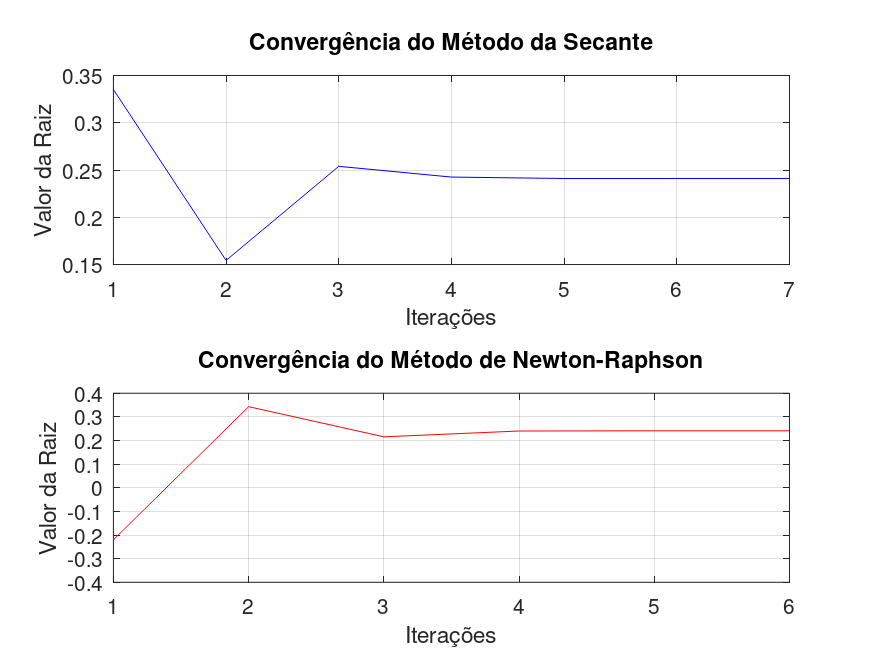
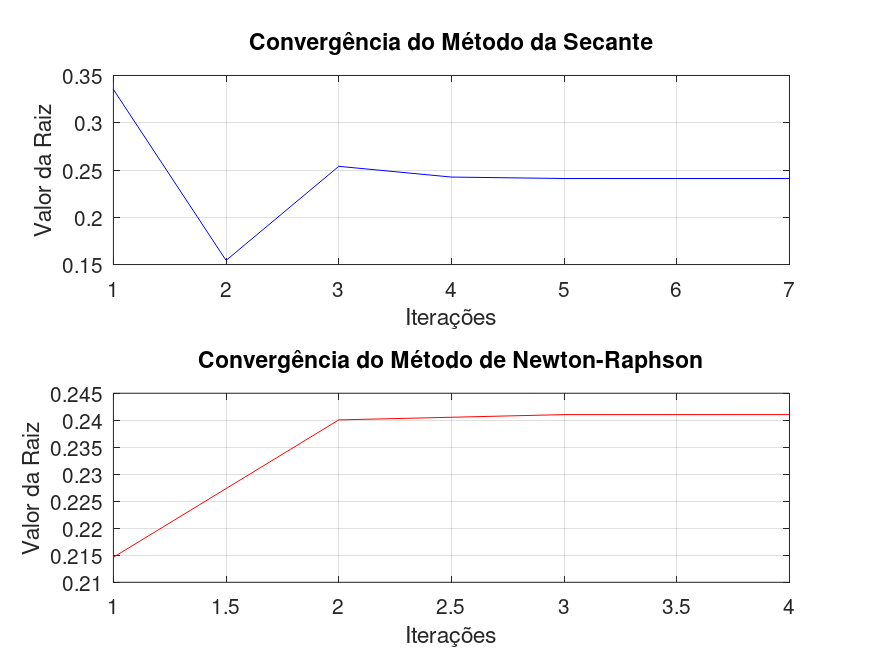
Finalizado lista grupo

diff --git a/Lista 5 - Alex e Bruno/P2/lista5Questao3.m b/Lista 5 - Alex e Bruno/P2/lista5Questao3.m
@@ -27,7 +27,7 @@ function lista5Questao3()
     [rootSecante, itSecante, valoresSecante] = metodoSecante(e, F, q, Q, raio);
 
     % Criar tabela comparativa
-    criar_tabela(itBisseccao, rootBisseccao, itFalsaPosicao, rootFalsaPosicao, itIteracaoLinear, rootIteracaoLinear, itNewtonRaphson+1, rootNewtonRaphson, itSecante, rootSecante);
+    criar_tabela(itBisseccao, rootBisseccao, itFalsaPosicao, rootFalsaPosicao, itIteracaoLinear, rootIteracaoLinear, itNewtonRaphson+1, rootNewtonRaphson, itSecante+1, rootSecante);
 
     % Criar gráficos de convergência
     criar_graficos(valoresBisseccao, valoresFalsaPosicao, valoresIteracaoLinear, valoresNewtonRaphson, valoresSecante);
@@ -142,6 +142,7 @@ endfunction
 function criar_graficos(valoresBisseccao, valoresFalsaPosicao, valoresIteracaoLinear, valoresNewtonRaphson, valoresSecante)
     % Função para criar gráficos de convergência separados para cada método
 
+    % Gráfico combinado
     figure;
     plot(valoresBisseccao, 'b-'); hold on;
     plot(valoresFalsaPosicao, 'g-');
@@ -162,6 +163,7 @@ function criar_graficos(valoresBisseccao, valoresFalsaPosicao, valoresIteracaoLi
     ylabel('Raiz Aproximada');
     title('Gráfico de Convergência - Bissecção');
     legend show;
+    saveas(gcf, 'graficos_convergencia_bisseccao_lista5Questao3.png');  % Salva o gráfico da bissecção
 
     % Gráfico para Falsa Posição
     figure;
@@ -170,6 +172,7 @@ function criar_graficos(valoresBisseccao, valoresFalsaPosicao, valoresIteracaoLi
     ylabel('Raiz Aproximada');
     title('Gráfico de Convergência - Falsa Posição');
     legend show;
+    saveas(gcf, 'graficos_convergencia_falsa_posicao_lista5Questao3.png');  % Salva o gráfico da falsa posição
 
     % Gráfico para Iteração Linear
     figure;
@@ -178,6 +181,7 @@ function criar_graficos(valoresBisseccao, valoresFalsaPosicao, valoresIteracaoLi
     ylabel('Raiz Aproximada');
     title('Gráfico de Convergência - Iteração Linear');
     legend show;
+    saveas(gcf, 'graficos_convergencia_iteracao_linear_lista5Questao3.png');  % Salva o gráfico da iteração linear
 
     % Gráfico para Newton-Raphson
     figure;
@@ -186,6 +190,7 @@ function criar_graficos(valoresBisseccao, valoresFalsaPosicao, valoresIteracaoLi
     ylabel('Raiz Aproximada');
     title('Gráfico de Convergência - Newton-Raphson');
     legend show;
+    saveas(gcf, 'graficos_convergencia_newton_raphson_lista5Questao3.png');  % Salva o gráfico do Newton-Raphson
 
     % Gráfico para Secante
     figure;
@@ -194,8 +199,8 @@ function criar_graficos(valoresBisseccao, valoresFalsaPosicao, valoresIteracaoLi
     ylabel('Raiz Aproximada');
     title('Gráfico de Convergência - Secante');
     legend show;
+    saveas(gcf, 'graficos_convergencia_secante_lista5Questao3.png');  % Salva o gráfico da secante
 endfunction
-
 
 
 

diff --git a/Lista 5 - Alex e Bruno/P1/lista5Questao3.m b/Lista 5 - Alex e Bruno/P1/lista5Questao3.m
@@ -65,7 +65,7 @@ function [r, it, valores] = metodoNewtonRaphson(f, e, q, Q, raio, Es)
         (x^2 + raio^2)^3;
 
     Ea = Inf; % Erro absoluto inicial
-    x = 0.5; % Valor inicial
+    x = 0; % Valor inicial
     it = 0; % Contador de iterações
     N = 20; % Número máximo de iterações
     valores = []; % Array para armazenar valores de x
